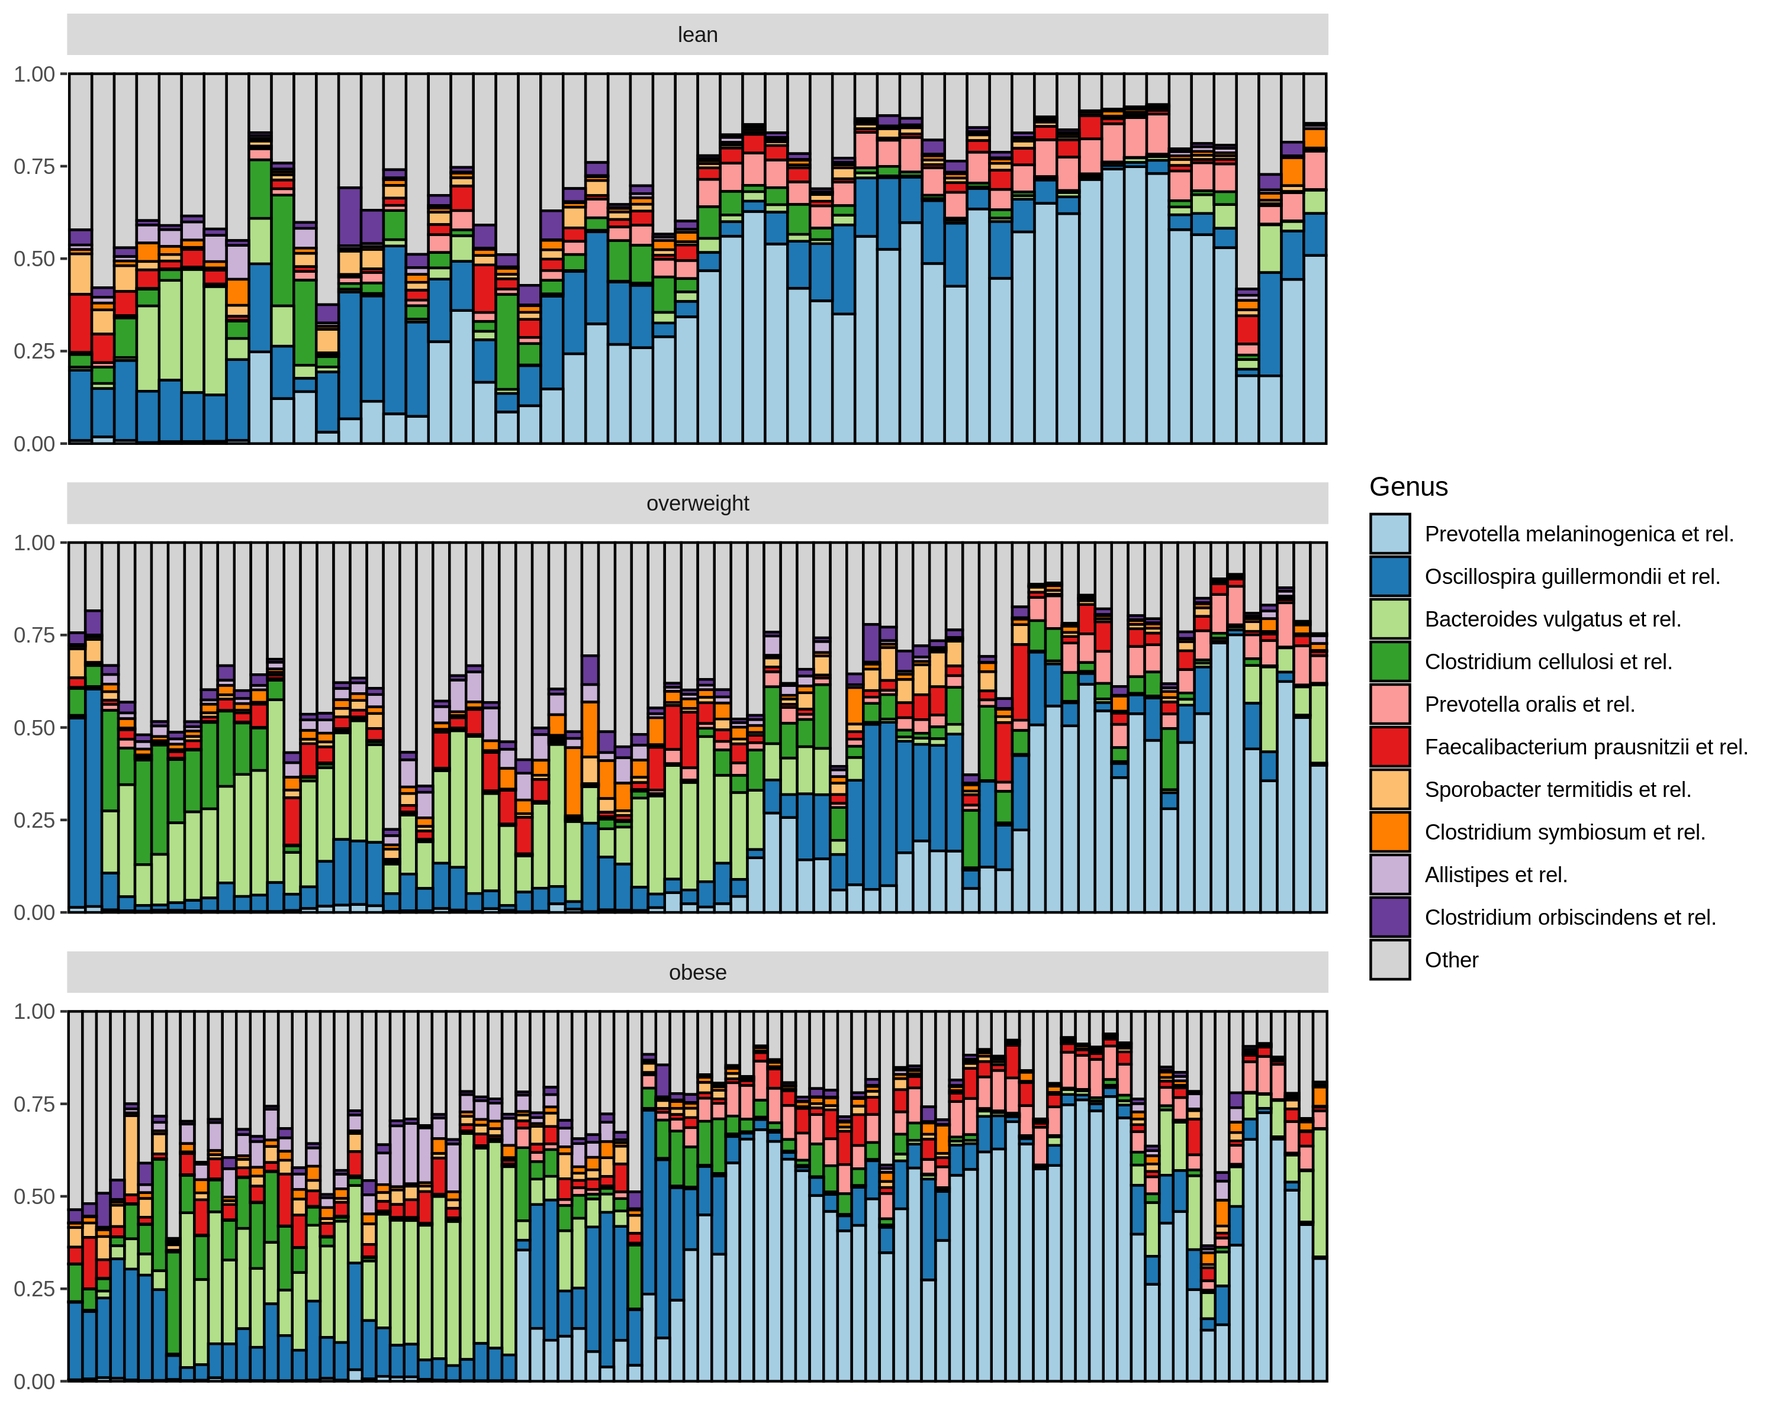
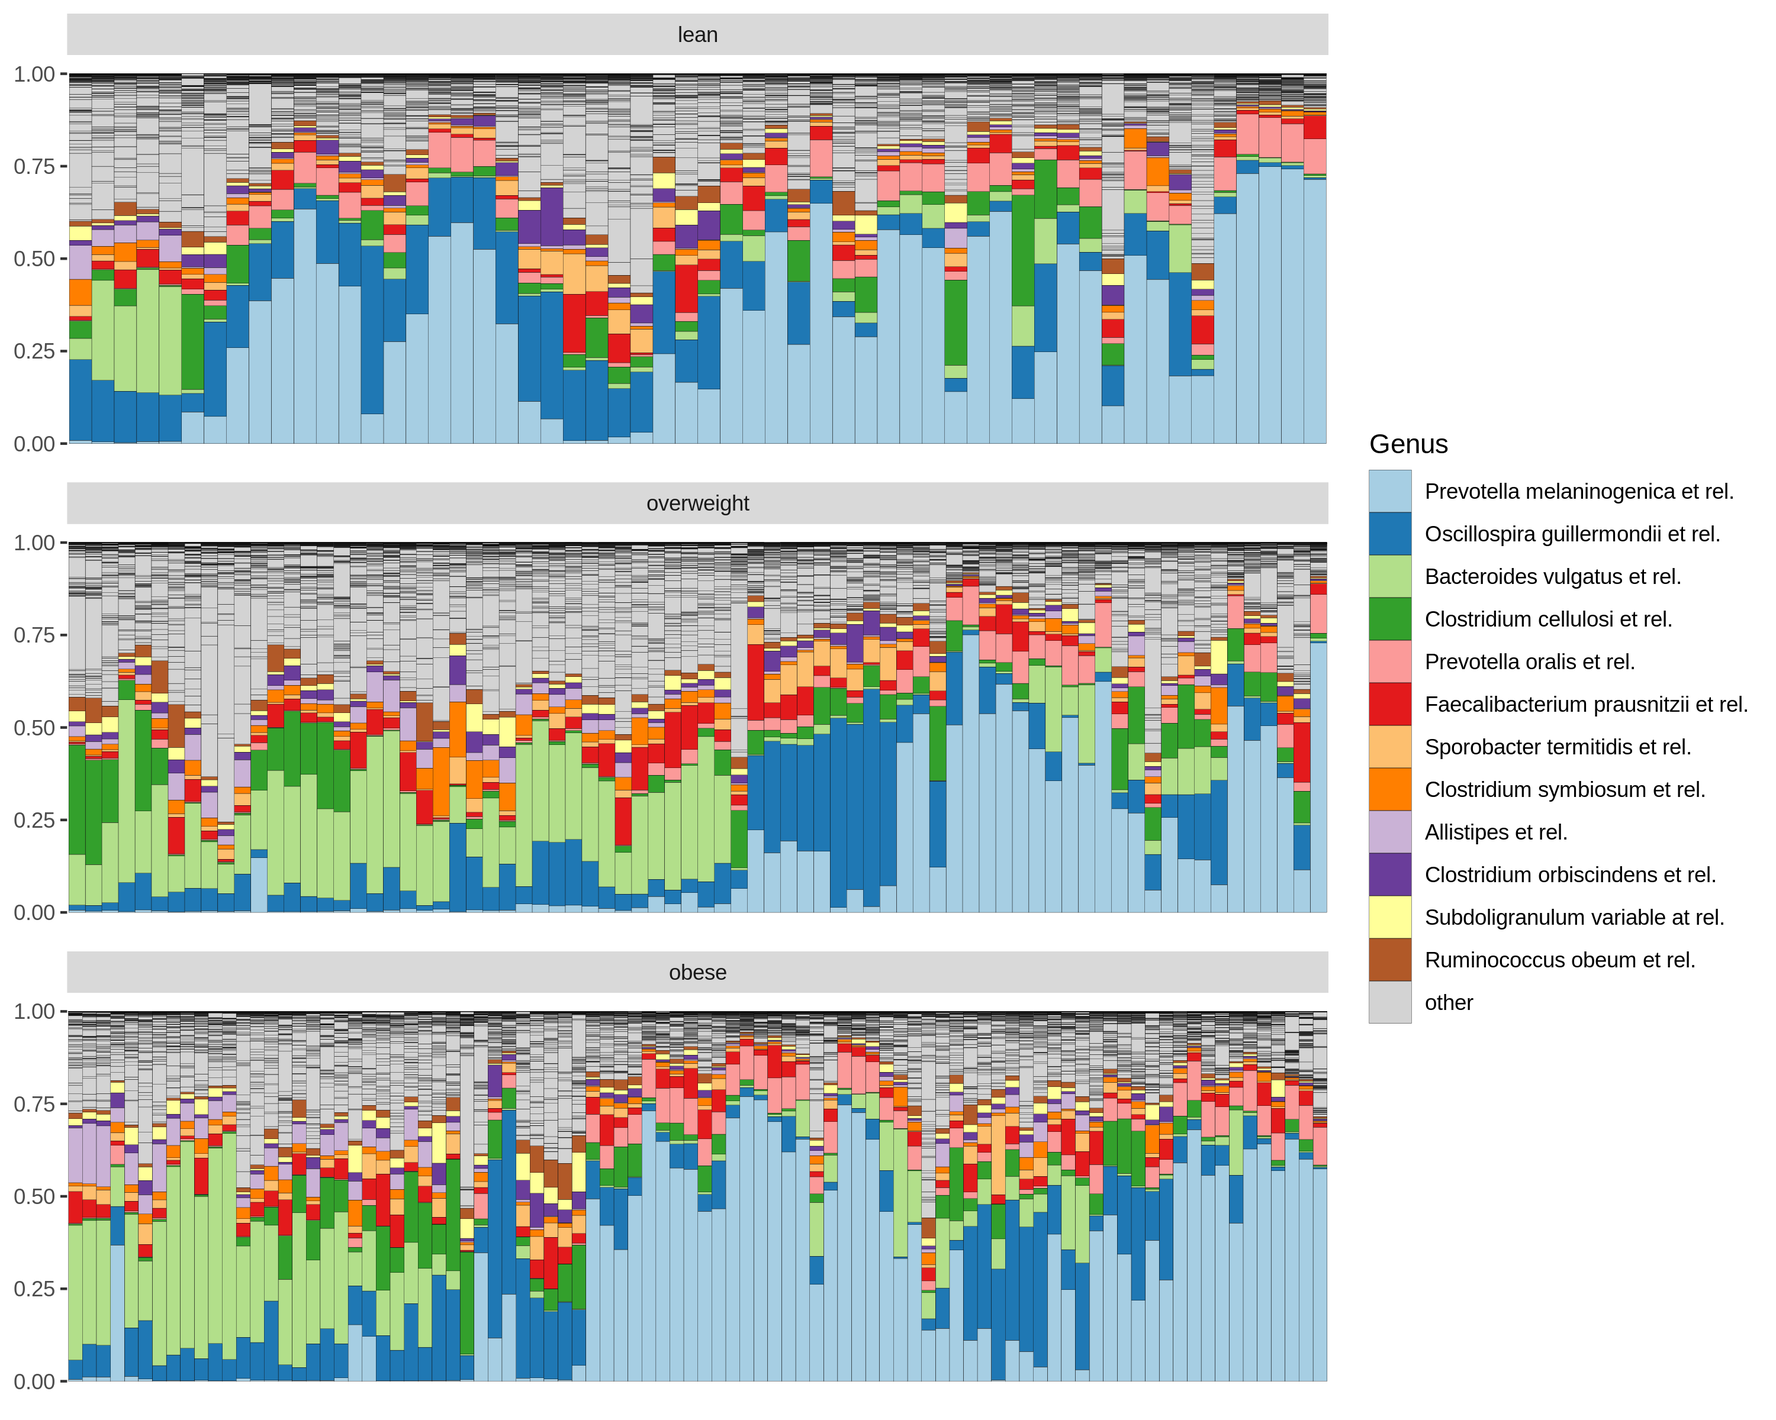
version 0.6.0

diff --git a/README.md b/README.md
@@ -11,21 +11,25 @@
 microViz package provides functions for wrangling, stats and
 visualisation of microbiome (16S) sequencing readcount data. These
 functions are intended to be easy to use (with clear documentation) and
-modular (for extensibility and flexibility). microViz wraps and extends
-popular microbial ecology packages like phyloseq, vegan, and microbiome.
+modular (for extensibility and flexibility). microViz wraps, extends and
+complements, popular microbial ecology packages like phyloseq, vegan,
+and microbiome.
 
 **See the documentation website for full details and examples:**
 <https://david-barnett.github.io/microViz/>
 
+  - The [“Get
+    started”](https://david-barnett.github.io/microViz/articles/articles/microViz.html)
+    page, and also this ReadMe, show a few example analyses.
   - The
     [reference](https://david-barnett.github.io/microViz/reference/index.html)
     page lists all functions and links to their documentation and
     examples
-  - The articles pages discuss and give more complicated examples (in
-    development)
   - The
     [changelog](https://david-barnett.github.io/microViz/news/index.html)
     describe important changes in new microViz package versions
+  - The articles pages discuss and give more complicated examples
+    (articles in development\!)
 
 ## Installation
 
@@ -36,6 +40,9 @@ following instructions.
 # If you are on windows you will need to install RTools so that your computer can build this package
 # Follow instructions here: http://jtleek.com/modules/01_DataScientistToolbox/02_10_rtools/
 
+# If you are on macOS, you might need to install xquartz to make the heatmaps work (ComplexHeatmaps package)
+# You can do this with homebrew, running the following command in your mac's Terminal: brew install --cask xquartz 
+
 # If you don't already have the latest versions of phyloseq and microbiome, you should install these from bioconductor:
 
 if (!requireNamespace("BiocManager", quietly = TRUE))
@@ -44,7 +51,7 @@ BiocManager::install(c("phyloseq", "microbiome"))
 
 # # Installing the latest version of this package # #
 install.packages("devtools")
-devtools::install_github("MUMC-MEDMIC/microViz@0.5.0") # check 0.5.0 is the latest version?
+devtools::install_github("david-barnett/microViz@0.6.0") # check 0.6.0 is the latest version?
 # advanced tip: add @<commit-hash> after microViz to install a version from a particular commit
 ```
 
@@ -53,8 +60,6 @@ devtools::install_github("MUMC-MEDMIC/microViz@0.5.0") # check 0.5.0 is the late
 ``` r
 library(microViz)
 library(phyloseq)
-library(vegan)
-library(microbiome)
 library(dplyr)
 library(ggplot2)
 ```
@@ -82,7 +87,11 @@ BMI groups?
 ``` r
 dietswap %>%
   tax_filter(min_prevalence = 1) %>%
-  comp_barplot(tax_level = "Genus",  n_taxa = 10) +
+  comp_barplot(
+    tax_level = "Genus",  n_taxa = 12, 
+    merge_other = FALSE 
+    # set merge_other = TRUE (the default) to remove outlines from inside "other" category
+  ) +
   facet_wrap("bmi_group", nrow = 3, scales = "free") +
   labs(x = NULL, y = NULL) +
   theme(
@@ -127,8 +136,10 @@ unconstrained_aitchison_pca <-
   tax_filter(min_prevalence = 0.1, tax_level = "Genus") %>%
   tax_agg("Family") %>%
   tax_transform("clr") %>%
-  ord_calc(method = "RDA")
+  ord_calc() 
 #> Proportional min_prevalence given: 0.1 --> min 23/222 samples.
+# will automatically infer you want a "PCA" here
+# specify explicitly with method = "PCA", or you can pick another method
 
 # create plot
 pca_plot <- unconstrained_aitchison_pca %>%
@@ -163,6 +174,7 @@ aitchison_dists <-
   dietswap %>%
   tax_filter(min_prevalence = 0.1, tax_level = "Genus") %>%
   tax_agg("Family") %>%
+  tax_transform("identity") %>% 
   dist_calc("aitchison")
 #> Proportional min_prevalence given: 0.1 --> min 23/222 samples.
 
@@ -176,8 +188,8 @@ aitchison_perm <- dist_permanova(
   variables = "bmi_group + female"
 )
 #> Dropping samples with missings: 2
-#> 2021-03-15 15:47:52 - Starting PERMANOVA with 99 perms with 1 processes
-#> 2021-03-15 15:47:52 - Finished PERMANOVA
+#> 2021-03-19 14:09:25 - Starting PERMANOVA with 99 perms with 1 processes
+#> 2021-03-19 14:09:25 - Finished PERMANOVA
 # view the permanova results
 perm_get(aitchison_perm)
 #> Permutation test for adonis under reduced model
@@ -196,7 +208,7 @@ perm_get(aitchison_perm)
 # view the info stored about the distance calculation
 info_get(aitchison_perm)
 #> phyloseq info:
-#> tax_agg = Family tax_transform = NA
+#> tax_agg = Family tax_transform = identity
 ```
 
 ## Constrained ordination
@@ -207,8 +219,8 @@ your permanova directly using the ord\_plot function with constraints.
 ``` r
 perm2 <- dist_permanova(data = aitchison_dists, variables = c("weight", "female"), seed = 321)
 #> Dropping samples with missings: 2
-#> 2021-03-15 15:47:52 - Starting PERMANOVA with 999 perms with 1 processes
-#> 2021-03-15 15:47:53 - Finished PERMANOVA
+#> 2021-03-19 14:09:25 - Starting PERMANOVA with 999 perms with 1 processes
+#> 2021-03-19 14:09:25 - Finished PERMANOVA
 perm_get(perm2)
 #> Permutation test for adonis under reduced model
 #> Marginal effects of terms
@@ -233,7 +245,7 @@ ord_calc(perm2, constraints = c("weight", "female")) %>%
   stat_ellipse(aes(colour = sex)) + scale_color_brewer(palette = "Dark2")
 #> Dropping samples with missings: 0
 #> 
-#> Centering (mean) and scaling (sd) the constraint and conditioning vars:
+#> Centering (mean) and scaling (sd) the constraints and conditions:
 #>  weight
 #>  female
 ```
@@ -254,109 +266,109 @@ devtools::session_info()
 #>  collate  en_GB.UTF-8                 
 #>  ctype    en_GB.UTF-8                 
 #>  tz       Europe/Amsterdam            
-#>  date     2021-03-15                  
+#>  date     2021-03-19                  
 #> 
 #> ─ Packages ───────────────────────────────────────────────────────────────────────────────────────
-#>  package      * version    date       lib source        
-#>  ade4           1.7-16     2020-10-28 [1] CRAN (R 4.0.3)
-#>  ape            5.4-1      2020-08-13 [1] CRAN (R 4.0.3)
-#>  assertthat     0.2.1      2019-03-21 [1] CRAN (R 4.0.3)
-#>  Biobase        2.50.0     2020-10-27 [1] Bioconductor  
-#>  BiocGenerics   0.36.0     2020-10-27 [1] Bioconductor  
-#>  biomformat     1.18.0     2020-10-27 [1] Bioconductor  
-#>  Biostrings     2.58.0     2020-10-27 [1] Bioconductor  
-#>  cachem         1.0.4      2021-02-13 [1] CRAN (R 4.0.3)
-#>  callr          3.5.1      2020-10-13 [1] CRAN (R 4.0.3)
-#>  cli            2.3.1      2021-02-23 [1] CRAN (R 4.0.3)
-#>  cluster        2.1.0      2019-06-19 [2] CRAN (R 4.0.3)
-#>  codetools      0.2-18     2020-11-04 [1] CRAN (R 4.0.3)
-#>  colorspace     2.0-0      2020-11-11 [1] CRAN (R 4.0.3)
-#>  crayon         1.4.1      2021-02-08 [1] CRAN (R 4.0.3)
-#>  data.table     1.14.0     2021-02-21 [1] CRAN (R 4.0.3)
-#>  debugme        1.1.0      2017-10-22 [1] CRAN (R 4.0.3)
-#>  desc           1.2.0      2018-05-01 [1] CRAN (R 4.0.3)
-#>  devtools     * 2.3.2      2020-09-18 [1] CRAN (R 4.0.3)
-#>  digest         0.6.27     2020-10-24 [1] CRAN (R 4.0.3)
-#>  dplyr        * 1.0.5      2021-03-05 [1] CRAN (R 4.0.3)
-#>  ellipsis       0.3.1      2020-05-15 [1] CRAN (R 4.0.3)
-#>  evaluate       0.14       2019-05-28 [1] CRAN (R 4.0.3)
-#>  fansi          0.4.2      2021-01-15 [1] CRAN (R 4.0.3)
-#>  farver         2.1.0      2021-02-28 [1] CRAN (R 4.0.3)
-#>  fastmap        1.1.0      2021-01-25 [1] CRAN (R 4.0.3)
-#>  foreach        1.5.1      2020-10-15 [1] CRAN (R 4.0.3)
-#>  fs             1.5.0      2020-07-31 [1] CRAN (R 4.0.3)
-#>  generics       0.1.0      2020-10-31 [1] CRAN (R 4.0.3)
-#>  ggplot2      * 3.3.3      2020-12-30 [1] CRAN (R 4.0.3)
-#>  glue           1.4.2      2020-08-27 [1] CRAN (R 4.0.3)
-#>  gtable         0.3.0      2019-03-25 [1] CRAN (R 4.0.3)
-#>  highr          0.8        2019-03-20 [1] CRAN (R 4.0.3)
-#>  hms            1.0.0      2021-01-13 [1] CRAN (R 4.0.3)
-#>  htmltools      0.5.1.1    2021-01-22 [1] CRAN (R 4.0.3)
-#>  igraph         1.2.6      2020-10-06 [1] CRAN (R 4.0.3)
-#>  IRanges        2.24.1     2020-12-12 [1] Bioconductor  
-#>  iterators      1.0.13     2020-10-15 [1] CRAN (R 4.0.3)
-#>  jsonlite       1.7.2      2020-12-09 [1] CRAN (R 4.0.3)
-#>  knitr          1.31       2021-01-27 [1] CRAN (R 4.0.3)
-#>  labeling       0.4.2      2020-10-20 [1] CRAN (R 4.0.3)
-#>  lattice      * 0.20-41    2020-04-02 [2] CRAN (R 4.0.3)
-#>  lifecycle      1.0.0      2021-02-15 [1] CRAN (R 4.0.3)
-#>  magrittr       2.0.1      2020-11-17 [1] CRAN (R 4.0.3)
-#>  MASS           7.3-53     2020-09-09 [2] CRAN (R 4.0.3)
-#>  Matrix         1.3-2      2021-01-06 [1] CRAN (R 4.0.3)
-#>  memoise        2.0.0      2021-01-26 [1] CRAN (R 4.0.3)
-#>  mgcv           1.8-33     2020-08-27 [2] CRAN (R 4.0.3)
-#>  microbiome   * 1.12.0     2020-10-27 [1] Bioconductor  
-#>  microViz     * 0.5.0.9003 2021-03-14 [1] local         
-#>  multtest       2.46.0     2020-10-27 [1] Bioconductor  
-#>  munsell        0.5.0      2018-06-12 [1] CRAN (R 4.0.3)
-#>  nlme           3.1-149    2020-08-23 [2] CRAN (R 4.0.3)
-#>  permute      * 0.9-5      2019-03-12 [1] CRAN (R 4.0.3)
-#>  phyloseq     * 1.34.0     2020-10-27 [1] Bioconductor  
-#>  pillar         1.5.1      2021-03-05 [1] CRAN (R 4.0.3)
-#>  pkgbuild       1.2.0      2020-12-15 [1] CRAN (R 4.0.3)
-#>  pkgconfig      2.0.3      2019-09-22 [1] CRAN (R 4.0.3)
-#>  pkgdown      * 1.6.1      2020-09-12 [1] CRAN (R 4.0.3)
-#>  pkgload        1.2.0      2021-02-23 [1] CRAN (R 4.0.3)
-#>  plyr           1.8.6      2020-03-03 [1] CRAN (R 4.0.3)
-#>  prettyunits    1.1.1      2020-01-24 [1] CRAN (R 4.0.3)
-#>  processx       3.4.5      2020-11-30 [1] CRAN (R 4.0.3)
-#>  progress       1.2.2      2019-05-16 [1] CRAN (R 4.0.3)
-#>  ps             1.6.0      2021-02-28 [1] CRAN (R 4.0.3)
-#>  purrr          0.3.4      2020-04-17 [1] CRAN (R 4.0.3)
-#>  R6             2.5.0      2020-10-28 [1] CRAN (R 4.0.3)
-#>  RColorBrewer   1.1-2      2014-12-07 [1] CRAN (R 4.0.3)
-#>  Rcpp           1.0.6      2021-01-15 [1] CRAN (R 4.0.3)
-#>  registry       0.5-1      2019-03-05 [1] CRAN (R 4.0.3)
-#>  remotes        2.2.0      2020-07-21 [1] CRAN (R 4.0.3)
-#>  reshape2       1.4.4      2020-04-09 [1] CRAN (R 4.0.3)
-#>  rhdf5          2.34.0     2020-10-27 [1] Bioconductor  
-#>  rhdf5filters   1.2.0      2020-10-27 [1] Bioconductor  
-#>  Rhdf5lib       1.12.1     2021-01-26 [1] Bioconductor  
-#>  rlang          0.4.10     2020-12-30 [1] CRAN (R 4.0.3)
-#>  rmarkdown      2.7        2021-02-19 [1] CRAN (R 4.0.3)
-#>  rprojroot      2.0.2      2020-11-15 [1] CRAN (R 4.0.3)
-#>  Rtsne          0.15       2018-11-10 [1] CRAN (R 4.0.3)
-#>  S4Vectors      0.28.1     2020-12-09 [1] Bioconductor  
-#>  scales         1.1.1      2020-05-11 [1] CRAN (R 4.0.3)
-#>  seriation      1.2-9      2020-10-01 [1] CRAN (R 4.0.3)
-#>  sessioninfo    1.1.1      2018-11-05 [1] CRAN (R 4.0.3)
-#>  stringi        1.5.3      2020-09-09 [1] CRAN (R 4.0.3)
-#>  stringr        1.4.0      2019-02-10 [1] CRAN (R 4.0.3)
-#>  survival       3.2-7      2020-09-28 [2] CRAN (R 4.0.3)
-#>  testthat       3.0.2      2021-02-14 [1] CRAN (R 4.0.3)
-#>  tibble         3.1.0      2021-02-25 [1] CRAN (R 4.0.3)
-#>  tidyr          1.1.3      2021-03-03 [1] CRAN (R 4.0.3)
-#>  tidyselect     1.1.0      2020-05-11 [1] CRAN (R 4.0.3)
-#>  TSP            1.1-10     2020-04-17 [1] CRAN (R 4.0.3)
-#>  usethis      * 2.0.1      2021-02-10 [1] CRAN (R 4.0.3)
-#>  utf8           1.2.1      2021-03-12 [1] CRAN (R 4.0.3)
-#>  vctrs          0.3.6      2020-12-17 [1] CRAN (R 4.0.3)
-#>  vegan        * 2.5-7      2020-11-28 [1] CRAN (R 4.0.3)
-#>  withr          2.4.1      2021-01-26 [1] CRAN (R 4.0.3)
-#>  xfun           0.21       2021-02-10 [1] CRAN (R 4.0.3)
-#>  XVector        0.30.0     2020-10-27 [1] Bioconductor  
-#>  yaml           2.2.1      2020-02-01 [1] CRAN (R 4.0.3)
-#>  zlibbioc       1.36.0     2020-10-27 [1] Bioconductor  
+#>  package      * version date       lib source        
+#>  ade4           1.7-16  2020-10-28 [1] CRAN (R 4.0.3)
+#>  ape            5.4-1   2020-08-13 [1] CRAN (R 4.0.3)
+#>  assertthat     0.2.1   2019-03-21 [1] CRAN (R 4.0.3)
+#>  Biobase        2.50.0  2020-10-27 [1] Bioconductor  
+#>  BiocGenerics   0.36.0  2020-10-27 [1] Bioconductor  
+#>  biomformat     1.18.0  2020-10-27 [1] Bioconductor  
+#>  Biostrings     2.58.0  2020-10-27 [1] Bioconductor  
+#>  cachem         1.0.4   2021-02-13 [1] CRAN (R 4.0.3)
+#>  callr          3.5.1   2020-10-13 [1] CRAN (R 4.0.3)
+#>  cli            2.3.1   2021-02-23 [1] CRAN (R 4.0.3)
+#>  cluster        2.1.0   2019-06-19 [2] CRAN (R 4.0.3)
+#>  codetools      0.2-18  2020-11-04 [1] CRAN (R 4.0.3)
+#>  colorspace     2.0-0   2020-11-11 [1] CRAN (R 4.0.3)
+#>  crayon         1.4.1   2021-02-08 [1] CRAN (R 4.0.3)
+#>  data.table     1.14.0  2021-02-21 [1] CRAN (R 4.0.3)
+#>  debugme        1.1.0   2017-10-22 [1] CRAN (R 4.0.3)
+#>  desc           1.2.0   2018-05-01 [1] CRAN (R 4.0.3)
+#>  devtools     * 2.3.2   2020-09-18 [1] CRAN (R 4.0.3)
+#>  digest         0.6.27  2020-10-24 [1] CRAN (R 4.0.3)
+#>  dplyr        * 1.0.5   2021-03-05 [1] CRAN (R 4.0.3)
+#>  ellipsis       0.3.1   2020-05-15 [1] CRAN (R 4.0.3)
+#>  evaluate       0.14    2019-05-28 [1] CRAN (R 4.0.3)
+#>  fansi          0.4.2   2021-01-15 [1] CRAN (R 4.0.3)
+#>  farver         2.1.0   2021-02-28 [1] CRAN (R 4.0.3)
+#>  fastmap        1.1.0   2021-01-25 [1] CRAN (R 4.0.3)
+#>  foreach        1.5.1   2020-10-15 [1] CRAN (R 4.0.3)
+#>  fs             1.5.0   2020-07-31 [1] CRAN (R 4.0.3)
+#>  generics       0.1.0   2020-10-31 [1] CRAN (R 4.0.3)
+#>  ggplot2      * 3.3.3   2020-12-30 [1] CRAN (R 4.0.3)
+#>  glue           1.4.2   2020-08-27 [1] CRAN (R 4.0.3)
+#>  gtable         0.3.0   2019-03-25 [1] CRAN (R 4.0.3)
+#>  highr          0.8     2019-03-20 [1] CRAN (R 4.0.3)
+#>  hms            1.0.0   2021-01-13 [1] CRAN (R 4.0.3)
+#>  htmltools      0.5.1.1 2021-01-22 [1] CRAN (R 4.0.3)
+#>  igraph         1.2.6   2020-10-06 [1] CRAN (R 4.0.3)
+#>  IRanges        2.24.1  2020-12-12 [1] Bioconductor  
+#>  iterators      1.0.13  2020-10-15 [1] CRAN (R 4.0.3)
+#>  jsonlite       1.7.2   2020-12-09 [1] CRAN (R 4.0.3)
+#>  knitr          1.31    2021-01-27 [1] CRAN (R 4.0.3)
+#>  labeling       0.4.2   2020-10-20 [1] CRAN (R 4.0.3)
+#>  lattice        0.20-41 2020-04-02 [2] CRAN (R 4.0.3)
+#>  lifecycle      1.0.0   2021-02-15 [1] CRAN (R 4.0.3)
+#>  magrittr       2.0.1   2020-11-17 [1] CRAN (R 4.0.3)
+#>  MASS           7.3-53  2020-09-09 [2] CRAN (R 4.0.3)
+#>  Matrix         1.3-2   2021-01-06 [1] CRAN (R 4.0.3)
+#>  memoise        2.0.0   2021-01-26 [1] CRAN (R 4.0.3)
+#>  mgcv           1.8-33  2020-08-27 [2] CRAN (R 4.0.3)
+#>  microbiome     1.12.0  2020-10-27 [1] Bioconductor  
+#>  microViz     * 0.6.0   2021-03-19 [1] local         
+#>  multtest       2.46.0  2020-10-27 [1] Bioconductor  
+#>  munsell        0.5.0   2018-06-12 [1] CRAN (R 4.0.3)
+#>  nlme           3.1-149 2020-08-23 [2] CRAN (R 4.0.3)
+#>  permute        0.9-5   2019-03-12 [1] CRAN (R 4.0.3)
+#>  phyloseq     * 1.34.0  2020-10-27 [1] Bioconductor  
+#>  pillar         1.5.1   2021-03-05 [1] CRAN (R 4.0.3)
+#>  pkgbuild       1.2.0   2020-12-15 [1] CRAN (R 4.0.3)
+#>  pkgconfig      2.0.3   2019-09-22 [1] CRAN (R 4.0.3)
+#>  pkgdown      * 1.6.1   2020-09-12 [1] CRAN (R 4.0.3)
+#>  pkgload        1.2.0   2021-02-23 [1] CRAN (R 4.0.3)
+#>  plyr           1.8.6   2020-03-03 [1] CRAN (R 4.0.3)
+#>  prettyunits    1.1.1   2020-01-24 [1] CRAN (R 4.0.3)
+#>  processx       3.4.5   2020-11-30 [1] CRAN (R 4.0.3)
+#>  progress       1.2.2   2019-05-16 [1] CRAN (R 4.0.3)
+#>  ps             1.6.0   2021-02-28 [1] CRAN (R 4.0.3)
+#>  purrr          0.3.4   2020-04-17 [1] CRAN (R 4.0.3)
+#>  R6             2.5.0   2020-10-28 [1] CRAN (R 4.0.3)
+#>  RColorBrewer   1.1-2   2014-12-07 [1] CRAN (R 4.0.3)
+#>  Rcpp           1.0.6   2021-01-15 [1] CRAN (R 4.0.3)
+#>  registry       0.5-1   2019-03-05 [1] CRAN (R 4.0.3)
+#>  remotes        2.2.0   2020-07-21 [1] CRAN (R 4.0.3)
+#>  reshape2       1.4.4   2020-04-09 [1] CRAN (R 4.0.3)
+#>  rhdf5          2.34.0  2020-10-27 [1] Bioconductor  
+#>  rhdf5filters   1.2.0   2020-10-27 [1] Bioconductor  
+#>  Rhdf5lib       1.12.1  2021-01-26 [1] Bioconductor  
+#>  rlang          0.4.10  2020-12-30 [1] CRAN (R 4.0.3)
+#>  rmarkdown      2.7     2021-02-19 [1] CRAN (R 4.0.3)
+#>  rprojroot      2.0.2   2020-11-15 [1] CRAN (R 4.0.3)
+#>  Rtsne          0.15    2018-11-10 [1] CRAN (R 4.0.3)
+#>  S4Vectors      0.28.1  2020-12-09 [1] Bioconductor  
+#>  scales         1.1.1   2020-05-11 [1] CRAN (R 4.0.3)
+#>  seriation      1.2-9   2020-10-01 [1] CRAN (R 4.0.3)
+#>  sessioninfo    1.1.1   2018-11-05 [1] CRAN (R 4.0.3)
+#>  stringi        1.5.3   2020-09-09 [1] CRAN (R 4.0.3)
+#>  stringr        1.4.0   2019-02-10 [1] CRAN (R 4.0.3)
+#>  survival       3.2-7   2020-09-28 [2] CRAN (R 4.0.3)
+#>  testthat       3.0.2   2021-02-14 [1] CRAN (R 4.0.3)
+#>  tibble         3.1.0   2021-02-25 [1] CRAN (R 4.0.3)
+#>  tidyr          1.1.3   2021-03-03 [1] CRAN (R 4.0.3)
+#>  tidyselect     1.1.0   2020-05-11 [1] CRAN (R 4.0.3)
+#>  TSP            1.1-10  2020-04-17 [1] CRAN (R 4.0.3)
+#>  usethis      * 2.0.1   2021-02-10 [1] CRAN (R 4.0.3)
+#>  utf8           1.2.1   2021-03-12 [1] CRAN (R 4.0.3)
+#>  vctrs          0.3.6   2020-12-17 [1] CRAN (R 4.0.3)
+#>  vegan          2.5-7   2020-11-28 [1] CRAN (R 4.0.3)
+#>  withr          2.4.1   2021-01-26 [1] CRAN (R 4.0.3)
+#>  xfun           0.21    2021-02-10 [1] CRAN (R 4.0.3)
+#>  XVector        0.30.0  2020-10-27 [1] Bioconductor  
+#>  yaml           2.2.1   2020-02-01 [1] CRAN (R 4.0.3)
+#>  zlibbioc       1.36.0  2020-10-27 [1] Bioconductor  
 #> 
 #> [1] /home/david/R/x86_64-pc-linux-gnu-library/4.0
 #> [2] /opt/R/4.0.3/lib/R/library

diff --git a/NEWS.md b/NEWS.md
@@ -1,4 +1,9 @@
-# microViz (development version)
+# microViz 0.6.0 - "open sesame"
+
+This is the first public release version of microViz. It is still under active development, so pay attention to the following:
+
+- Minor version changes (e.g. 0.5.* to 0.6.0) will signal that breaking changes have been made, i.e. installing the new version may break some previously working code. Breaking changes will be listed in this document.
+- Patch versions (e.g. 0.5.1 to 0.5.2) will be used to release new features and bug fixes, which should not break existing code. Please let me know if it does anyway!
 
 ## Breaking changes
 * `tax_agg` argument agg_level renamed to rank. `tax_agg` returns taxa in different order than before (and now different order from, but same aggregation as, `microbiome::aggregate_taxa()`). tax_agg now checks if taxa cannot be uniquely identified at the specified rank level. (now also about twice as fast)
